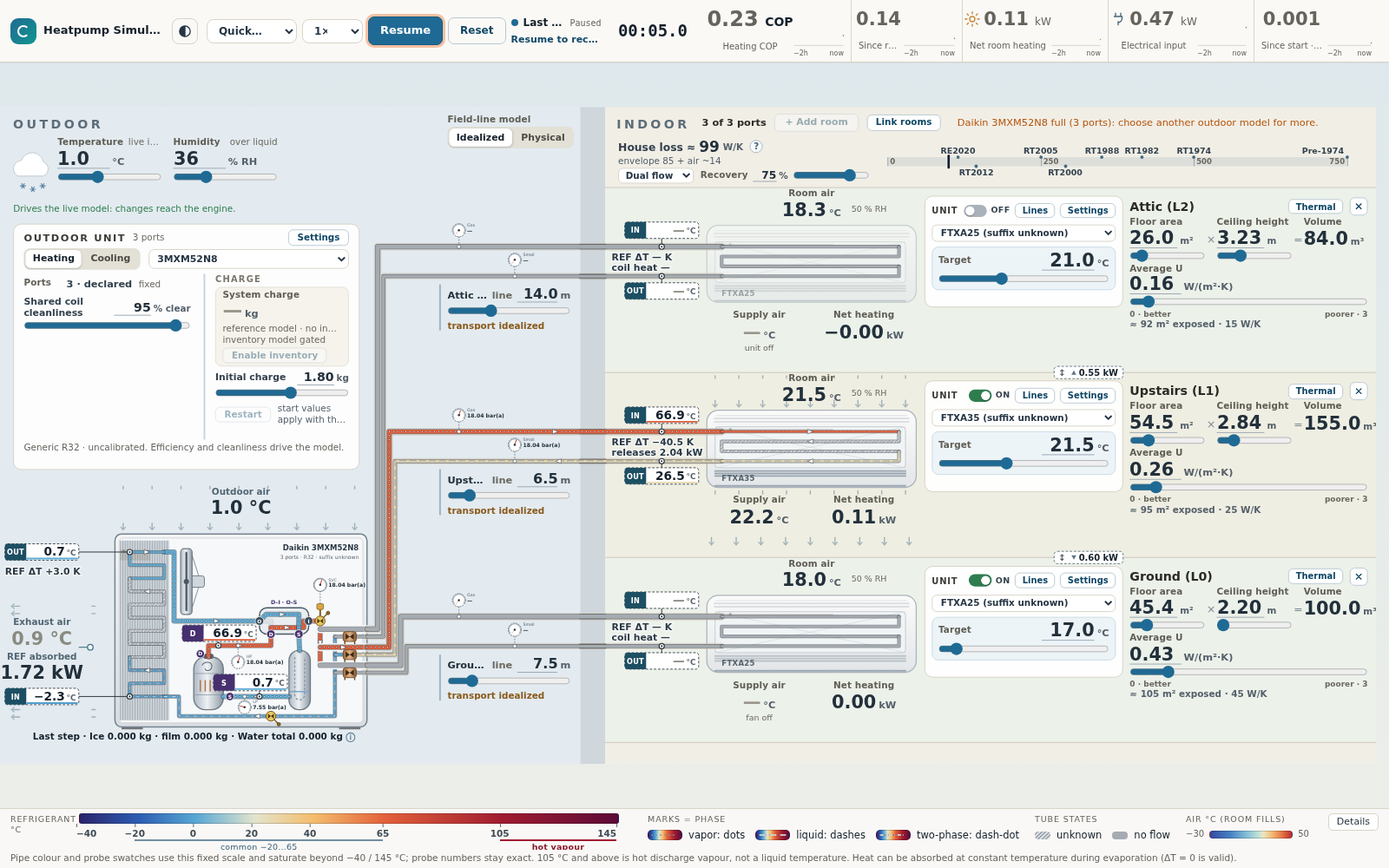
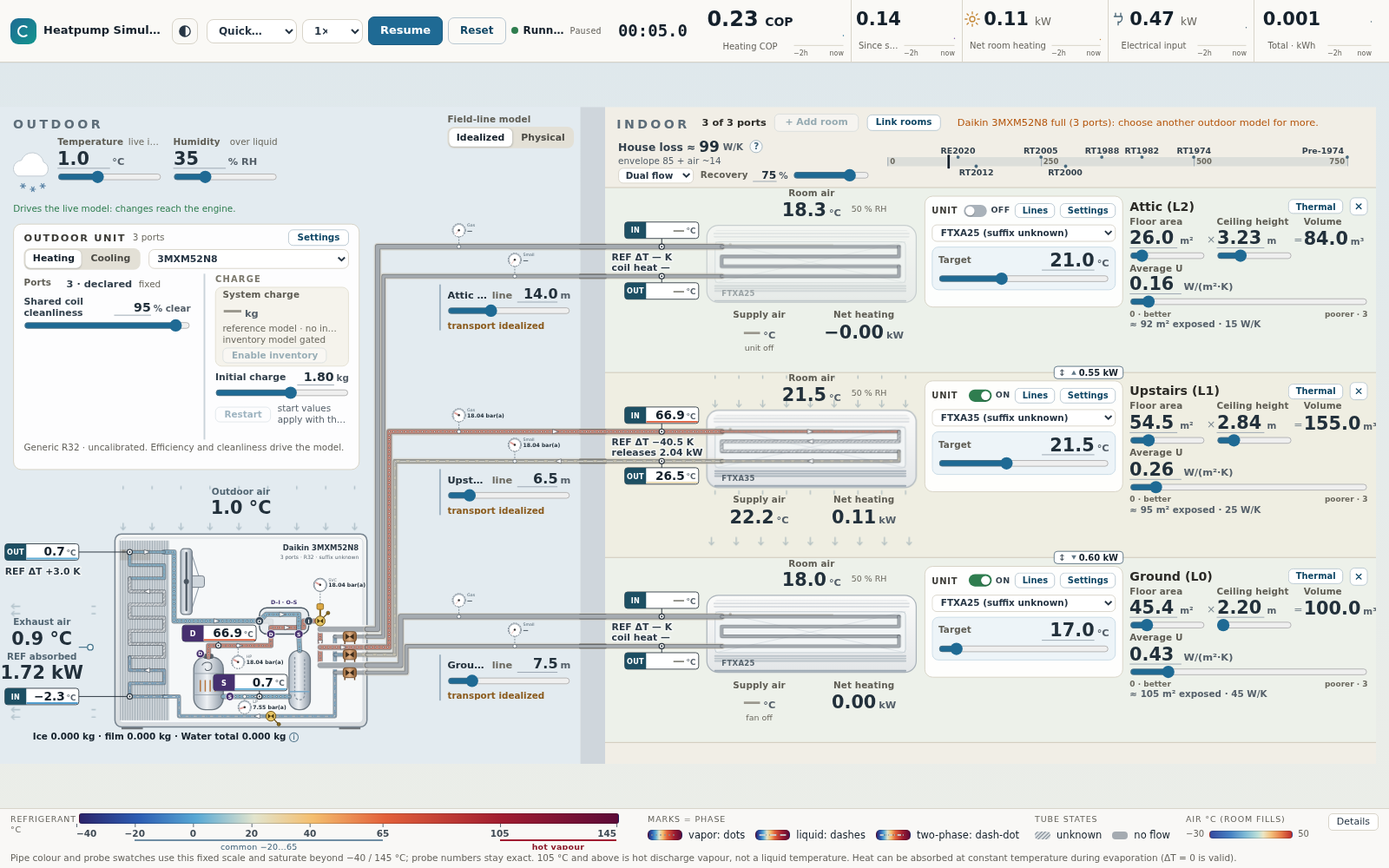
Make headline units legible and show elapsed hours

diff --git a/src/style.css b/src/style.css
@@ -320,8 +320,8 @@ h2, h3, h4, h5, p, ul, dl { margin: 0; }
 .brand b { font-size: 13px; letter-spacing: 0; white-space: nowrap; overflow: hidden; text-overflow: ellipsis; }
 .mark { width: 30px; height: 30px; border-radius: 9px; background: linear-gradient(135deg, #1f6a94, #12968e); position: relative; flex: none; }
 .mark::after { content: ""; position: absolute; inset: 8px; border: 2px solid #fff; border-radius: 50%; border-right-color: transparent; }
-/* Below 1420 px the header budget goes to the controls: the mark stays, the name stays available to hover and screen readers. */
-@media (max-width: 1419px) {
+/* On narrower desktops the header budget goes to the controls; the name stays available to hover and screen readers. */
+@media (max-width: 1499px) {
   .brand b { position: absolute; width: 1px; height: 1px; overflow: hidden; clip-path: inset(50%); }
   .brand .mark { display: none; }
   .hd-id { min-width: 30px; }
@@ -348,7 +348,7 @@ h2, h3, h4, h5, p, ul, dl { margin: 0; }
 }
 
 .hd-group { display: flex; align-items: center; gap: 6px; flex: none; }
-/* Status, achieved speed and clock read as one unit after the controls. The clock keeps tenths and room for three-digit minutes. */
+/* Status, achieved speed and elapsed hours/minutes/seconds read as one unit after the controls. */
 .hd-run { display: flex; align-items: center; gap: 8px; flex: none; }
 .time { font: 650 19px/1 var(--mono); font-variant-numeric: tabular-nums; letter-spacing: 0; min-width: 8ch; text-align: right; white-space: nowrap; }
 /* Action select: shows its placeholder at rest; the longer option texts only appear in the open list. */
@@ -364,22 +364,22 @@ h2, h3, h4, h5, p, ul, dl { margin: 0; }
 .hd-pause.attn { box-shadow: 0 0 0 3px rgba(232, 89, 12, 0.35); }
 .hd-reset { padding: 5px 10px; font-size: 12px; }
 
-/* Headline readings: three fixed cells, separated by full-height hairlines (no card borders, no radius). In each cell the
+/* Headline readings: five fixed cells, separated by full-height hairlines (no card borders, no radius). In each cell the
    value sits at the left with its label below it, and the two-hour trend fills the space to the right of both. */
 .hd-metrics { display: flex; align-self: stretch; flex: none; }
-.hm { display: grid; grid-template-columns: 88px minmax(36px, 1fr); grid-template-rows: auto auto; align-content: center; align-items: center; column-gap: 6px; row-gap: 2px; width: clamp(146px, 10.5vw, 208px); padding: 5px 8px; min-width: 0; }
+.hm { display: grid; grid-template-columns: 110px minmax(36px, 1fr); grid-template-rows: auto auto; align-content: center; align-items: center; column-gap: 6px; row-gap: 2px; width: clamp(168px, 11.5vw, 220px); padding: 5px 8px; min-width: 0; }
 /* The since-restart COP is a narrower secondary cell right of the instantaneous COP: smaller value, own plot. */
 .hm-session-cop { grid-template-columns: 46px minmax(36px, 1fr); width: clamp(104px, 8vw, 160px); }
-.hm-energy { grid-template-columns: 70px minmax(36px, 1fr); width: clamp(128px, 9vw, 176px); }
+.hm-energy { grid-template-columns: 110px minmax(36px, 1fr); width: clamp(168px, 11.5vw, 220px); }
 .hm-energy .v { font-size: 21px; }
 .hm-session-cop .v { font-size: 21px; font-weight: 750; }
 .hm-session-cop .k { font-size: 9px; }
 .hm + .hm { border-left: 1px solid var(--line); }
 .hm .vl { display: flex; grid-column: 1; grid-row: 1; justify-content: center; align-items: baseline; gap: 4px; white-space: nowrap; }
 .hm .v { font: 750 21px/1.15 var(--font); font-variant-numeric: tabular-nums; }
-.hm i { font-size: 12px; }
+.hm i { font: 600 21px/1.15 var(--font); color: var(--ink); opacity: .72; }
 .hm-cop .v { font-size: 24px; font-weight: 850; }
-.hm-cop i { font-size: 14px; font-weight: 750; color: var(--ink); }
+.hm-cop i { font-size: 24px; font-weight: 750; }
 .hm .k { grid-column: 1; grid-row: 2; text-align: center; max-width: 100%; font-size: 10px; color: var(--muted); white-space: nowrap; overflow: hidden; text-overflow: ellipsis; }
 .hm-icon { align-self: center; flex: none; width: 18px; height: 18px; fill: none; stroke: currentColor; stroke-width: 1.8; stroke-linecap: round; stroke-linejoin: round; color: var(--icon); }
 .hm-sun { color: var(--c-heat); }
@@ -400,11 +400,19 @@ h2, h3, h4, h5, p, ul, dl { margin: 0; }
 .hm-ends { position: absolute; left: 0; right: 0; bottom: 0; display: flex; justify-content: space-between; font: 8px/1 var(--font); color: var(--muted); pointer-events: none; }
 
 .hd-status { flex: none; width: 104px; display: flex; flex-direction: column; gap: 4px; }
-@media (max-width: 1419px) {
+@media (max-width: 1499px) {
+  .topbar { gap: 6px; padding-inline: 8px; }
+  .hd-group { gap: 5px; }
+  .hd-run { gap: 6px; }
   .hd-status { width: 100px; }
-  .hd-select.hd-preset { width: 96px; }
+  .hd-select.hd-preset { width: 76px; }
+  .hd-speed { width: 64px; }
   .hd-pause { min-width: 70px; }
   .topbar .btn { padding-inline: 9px; }
+}
+@media (max-width: 1359px) {
+  .hm, .hm-energy { grid-template-columns: 110px minmax(26px, 1fr); width: 158px; }
+  .hm-session-cop { grid-template-columns: 46px minmax(26px, 1fr); width: 94px; }
 }
 .hd-badges { display: flex; align-items: center; gap: 6px; min-width: 0; }
 .hd-badges .opstate, .hd-badges .hd-ex { min-width: 0; }

diff --git a/src/chrome.ts b/src/chrome.ts
@@ -18,9 +18,11 @@ export interface Header {
 }
 
 const fmtTime = (sec: number): string => {
-  const m = Math.floor(sec / 60);
-  const s = sec - m * 60;
-  return `${String(m).padStart(2, '0')}:${s.toFixed(1).padStart(4, '0')}`;
+  const wholeSeconds = Math.floor(sec);
+  const h = Math.floor(wholeSeconds / 3600);
+  const m = Math.floor(wholeSeconds / 60) % 60;
+  const s = wholeSeconds % 60;
+  return [h, m, s].map(value => String(value).padStart(2, '0')).join(':');
 };
 
 /** Shared one-line statements so every surface says the same thing about the live model. */
@@ -110,7 +112,7 @@ export function createHeader(): Header {
   const resetHelp = 'Restart the simulation from the current inputs: clock, ice and room state start over; your edited settings and initial room temperatures are kept and applied.';
   const reset = html('button', { type: 'button', class: 'btn ghost hd-reset', 'aria-label': 'Reset simulation', title: resetHelp }, 'Reset');
   reset.addEventListener('click', () => store.restartSimulation());
-  const time = html('output', { class: 'time', 'aria-label': 'Simulation time' }, '00:00.0');
+  const time = html('output', { class: 'time', 'aria-label': 'Simulation time' }, '00:00:00');
 
   // Headline readings: value with its trend to the right, label below the value, fixed-width cells so the header does not reflow
   // as numbers change. The plot fills most of the header height and stretches to its cell width (non-uniform viewBox, non-scaling strokes); its
@@ -138,9 +140,9 @@ export function createHeader(): Header {
   mHeat.root.classList.add('hm-heat');
   const mElec = metric('kW');
   mElec.root.classList.add('hm-elec');
-  const mEnergy = metric(null, 'energy-line');
+  const mEnergy = metric('kWh', 'energy-line');
   mEnergy.root.classList.add('hm-energy');
-  mEnergy.k.textContent = 'Total · kWh';
+  mEnergy.k.textContent = 'Since start';
   mEnergy.root.title = 'Electrical energy since start: cumulative compressor, fan and control electricity from the engine ledger. Kept across settings and mode changes; cleared on Reset.';
   const icon = (): SVGSVGElement => svg('svg', { class: 'hm-icon', viewBox: '0 0 24 24', 'aria-hidden': 'true' });
   const plug = icon();

diff --git a/PROGRESS.md b/PROGRESS.md
@@ -4,17 +4,22 @@ Updated 2026-10-11. This is the current implementation checkpoint; detailed evid
 
 ## Active release verification
 
-- Sonnet5.5 completed permanent brand-grouped indoor/outdoor selects, straight exhaust, a side-view outdoor fan, one calculated whole-house RT ruler and normalized room insulation. Room links now combine opening/contact areas and glass-wool thickness; owner defaults are4 +45 m²/120 mm at both floor junctions. Room data checks5/5, RT/layout4/4 (32 layouts), link/session/water6/6, navigation10/10, zoom/trends5/5 (64 layouts), equipment browser5/5, and all28 links in an eight-room layout pass. These changes are local until the next reviewed release.
-- Upper-bar winter/summer operating presets and a separate room Sun from windows input pass3/3 browser/guarded-worker checks. Presets preserve time and service energy; summer uses39 °C, all headsOn at24 °C. Later Home Assistant heatwave calibration is explicitly retained in `research/owner-summer-calibration-plan.md`; no HA retrieval was performed.
-- Qwen on10.10.10.204 (thinking off) produced52 Mitsubishi base candidates;25 outdoor and45 matched indoor profiles are accepted. Catalogue compaction preserves all applied fields while reducing generated runtime data by92.9%; six source-acceptance tests pass. Daikin discovery and Stylish candidates are saved but not accepted: source review found an airflow conversion error, and Qwen is correcting it. Full manufacturer coverage remains incomplete.
-- The first frozen moisture/protection source passed79 guarded Reference/property checks and a40-case replay/smoke/owner/frost campaign. The broader57-case seeded run passed53 and exposed four additional physical faults, with exact rollback and no native exit/timeout/invariant failures. These are saved and under thermodynamics correction plus independent science review; the previous passing receipts are not relabelled as proof of the newer source. The friend's native crash remains unreproduced; local diagnostic downloads and retained accepted state are verified.
+Application `86dbc4d` is deployed. GitHub run `38133655370` passed 91 Reference/property checks, 2 history checks, 7 catalogue checks and 25 smoke schedules. Seven hosted checks verified matching application/worker/WASM assets. Receipt: `reviews/github-pages-house-energy-deployment.json`.
+
+The next header refinement enlarges inline units to match values and displays elapsed HH:MM:SS without fractions; five local browser checks and the static build pass. Owner reports rapid ground-floor fan switching at −4°C outdoors and a16°C target; a dedicated thermodynamics agent is implementing persistent ±1K indoor calls and physically consistent fan modulation. This correction is not yet deployed.
+
+- House controls use average U with automatic estimated exposed area and advanced override. Default envelope losses remain45/25/15W/K. Owner dual flow defaults to0.5ACH gross and75% sensible recovery, explicitly assumed. All coils permanently share95% cleanliness. The RT ruler shows99.4075W/K nominal total. Independent science review and8data checks pass.
+- Header speed precedes Pause; achieved speed is beside status and the larger clock. Five taller plots include cumulative electrical kWh, which uses the engine ledger and clears on Reset. Compressor efficiency is in Outdoor Settings; Luna's corrected primary-source review supports retaining70% as a generic assumption. Four focused header/energy checks,32RT layouts,64zoom layouts and2history tests pass. Codex now owns interface changes per user instruction.
+- Updated engine passes91unique guarded Reference checks, with the private-runner missing-fixture packaging correction recorded explicitly in the two receipts. Source-pinned campaigns pass75/75 pre-recovery schedules and20/20 updated-recovery schedules. The latter includes the actual new house defaults, all owner reversals, friend/hot-weather cases and four defrosts. The actual browser completed1440s of strong heating followed by42°C cooling without a fault/reset; diagnostics and accepted-state retention pass. The friend's original native crash remains unreproduced.
+- Catalogue selection includes25Mitsubishi outdoor/45indoor profiles and4Daikin Stylish outdoor/16indoor colour variants. Seven source-acceptance tests and five equipment browser checks pass. Daikin outdoor airflow remains explicitly generic where unpublished. Qwen on10.10.10.204, thinking off, is extracting remaining families; dated2022 candidates do not establish the full current2026range. New candidates are not silently promoted.
+- Measured requested1×/2× pacing is approximately0.95×/1.94×; requested50× active operation averages14.1× over the short browser sample, while passive operation reaches45.8×. The displayed achieved rate is rolling, not a promise that the browser can sustain50×.
 
 ## Completed and verified
 
 - Frontend-only, pure-vector desktop workbench, with settings and measurements beside their environment or equipment.
 - Owner equipment preset and exact floor volumes: Ground 45.4 m² / 100 m³, Upstairs 54.5 m² / 155 m³, Attic 26 m² / 84 m³.
 - Individual indoor On/Off, room area/height/loss controls, outdoor weather, equipment cleanliness, branch line lengths and click-to-zoom zones.
-- Shared pipe-mounted manometers for outdoor and indoor branches; compact indoor controls. Latest interface checkpoint: `cdee99a`.
+- Shared pipe-mounted manometers for outdoor and indoor branches; compact indoor controls. Current interface/application checkpoint: `86dbc4d`.
 - Separately validated R32 Reference heating/cooling, room dynamics and natural frost/defrost. Production starts this actual worker model.
 - Conserved refrigerant mass/internal-energy implementation remains experimental and gated. Pressure-conditioning corrections passed the actual-backend core and rollback checks.
 - Product scope uses initial charge adjustments to compare post-loss scenarios. Ongoing leaks were removed. Optional compressor/fan audio is recorded for later, off by default.
@@ -32,7 +37,7 @@ Updated 2026-10-11. This is the current implementation checkpoint; detailed evid
 - **Inverter comfort control, verified and deployed:** replaced target-triggered shutdown in the Reference model with sensible-loss feed-forward and bounded room feedback, preserving independently solved heat exchange, actuator limits, protection, defrost and physical state. Conventional fixed-speed thermostat control is a separate strategy. Final guarded regression passed 52/52 in 281.85 s; independent science review accepted the frozen source. Balanced-load heating operated continuously across target for 600 s; the exact owner's cold two-head configuration also ran 600 s without fault or reset, without claiming settled targets. Below-minimum-load cycling remains physically necessary. Evidence: `reviews/inverter-reference-regression-results.json`, `research/inverter-control-validation.json` and `reviews/inverter-control-science-review.md`.
 - **Interface refinement, verified and deployed:** Sonnet 5.5 implemented System/Light/Dark themes with persistent explicit overrides. Headline graphs sit to the right of values; compact outdoor controls reclaim enough space for the default three-room overview without scrolling. Build and two history checks pass, with five theme checks, five zoom/history checks across 64 viewport/count/zoom combinations, and ten zone-navigation checks. Theme changes preserve physical state and fixed temperature scales; unavailable storage retains page-local choices. Interface commit `f25c7d3` and inverter commit `a2ade59` have both passed GitHub Actions and deployed; the loss-scale release also deployed as `0e7bc15`.
 - **Permanent loss-reference scale, verified and deployed:** Sonnet added a numerical 0–1000 W/K ruler and all eight supplied era bands directly beneath every room loss slider. Pre-1974 and RE2020 use full-width key rows; endpoint labels remain inside their room. Three browser checks passed across 32 viewport/count/theme combinations, retaining focus, room zoom, static reference elements and accepted physical state on loss edits. Build and the existing ten navigation checks pass. Evidence: `reviews/loss-scale-browser-results.json`.
-- **Latest published release:** application commit `0e7bc15` passed 52/52 Reference/property checks and 2/2 history checks in GitHub run `38117990981`, then deployed successfully. All six hosted-browser checks passed, including every supplied loss band beneath each room slider, retained clock on edits, zoom/legend placement and real accelerated worker operation. Application, worker, stylesheet and WASM hashes match the verified build. Evidence: `reviews/github-pages-interface-deployment.json` and `reviews/github-pages-browser-results.json`.
+- **Earlier loss-scale release:** application commit `0e7bc15` passed 52/52 Reference/property checks and 2/2 history checks in GitHub run `38117990981`, then deployed successfully. All six hosted-browser checks passed, including every supplied loss band beneath each room slider, retained clock on edits, zoom/legend placement and real accelerated worker operation. Application, worker, stylesheet and WASM hashes match the verified build. Evidence: `reviews/github-pages-interface-deployment.json` and `reviews/github-pages-browser-results.json`.
 
 - **Midpoint loss markers, verified and deployed:** at the owner’s request, Sonnet replaced range bars and the separate key with directly labelled midpoint markers. A conservative width allowance fixed the browser-observed RT2012/RT2000 overlap. Build, all three loss-scale checks across 32 viewport/count/theme combinations, and ten navigation checks passed, including label/leader collision checks and retained focus/zoom/state. Application `2ad257f` passed 52 Reference/property and 2 history checks in GitHub run `38119168519`, deployed successfully, and passed all six hosted checks with matching application/worker/styles/WASM hashes. Evidence: `reviews/github-pages-midpoints-deployment.json`.
 
@@ -70,7 +75,7 @@ The public charge gate remains closed. The Reference model has no charge respons
 
 Qwen3.8-Flash-Next on **10.10.10.204** owns Daikin and Mitsubishi Electric consumer-range population through OpenCode, with thinking off and a process-scoped SSH forward to its remote loopback API. No global provider configuration is changed. The research contract, candidate schema, official source index and worker status are under `research/catalogue/`; numerical source acceptance remains separate from schema validation.
 
-Qwen has saved **37 HR/AY/AP/EF staging candidates**. Independent selected-field acceptance maps18 outdoor references and26 compatible indoor profiles, including explicit EF colour variants. Facts outside the accepted whitelist remain candidates; EF18 awaits multisplit compatibility and is excluded. LN research is running on10.10.10.204, thinking off. Full Mitsubishi/Daikin coverage remains incomplete; subsequent families retain bounded source reads and per-unit checkpoints.
+Qwen has saved52Mitsubishi base candidates;25outdoor/45indoor profiles are accepted. Daikin Stylish4outdoor/16indoor variants are accepted, while remaining family staging is actively being populated and independently reviewed. Full current manufacturer coverage remains incomplete.
 
 Preserve distinct inverter and conventional fixed-speed control strategies for future catalogue entries. Luna completed the exact N8 source check in `research/daikin-3mxm52n8-specifications.md`. Julien reports steady 130 W at low temperature difference and confirms 2350 W as an upper value. Published combination-table minima are condition-specific ratings, not universal operating floors.
 

diff --git a/reviews/daikin-next-family-acceptance-plan.md b/reviews/daikin-next-family-acceptance-plan.md
@@ -1,0 +1,162 @@
+# Daikin next-family acceptance plan
+
+Reviewed 2026-10-11. This is an independent, read-only source review of completed
+Qwen candidate families. No application data, importer, acceptance list or
+production artifact was changed. Perfera and other actively written candidates
+were not consumed.
+
+Primary evidence: Daikin Europe, *Catalogue des produits pour installateurs
+2022*, ECPFR-FR22-000, French, PDF pages 40–41 (printed pages 40–41).
+Official URL: https://www.daikin.eu/content/dam/document-library/catalogues/ac/split/Split-Installer_Product%20catalogue_ECPFR-FR22-000_French.pdf
+Cached PDF SHA-256:
[1 lines of base64/hex data omitted]
+Both cached text and 2400px primary page images were read. All 16 family candidate
+files passed the existing structural validator; source acceptance is separate.
+This dated catalogue establishes historical declarations, not the full current
+2026 French range or present availability.
+
+## Ururu Sarara: six candidates eligible for bounded historical acceptance
+
+The p.40 title explicitly names FTXZ-N + RXZ-N. The efficiency table explicitly
+pairs 25N + 25N, 35N + 35N and 50N + 50N; the physical-unit headers confirm the same exact
+suffixes. Accept only these published monosplit combinations, each one indoor
+head/one port. No multisplit eligibility is established.
+
+| Outdoor reference | Matched indoor reference | Indoor high-fan cooling | Indoor high-fan heating | Nominal cooling of this combination |
+|---|---|---:|---:|---:|
+| RXZ25N | FTXZ25N | 10.7 m³/min = 642 m³/h | 11.7 m³/min = 702 m³/h | 2.5kW |
+| RXZ35N | FTXZ35N | 12.1 m³/min = 726 m³/h | 13.3 m³/min = 798 m³/h | 3.5kW |
+| RXZ50N | FTXZ50N | 15.0 m³/min = 900 m³/h | 14.4 m³/min = 864 m³/h | 5.0kW |
+
+The flow row is **m³/min**, so conversion to m³/h is exactly× 60. Cooling and
+heating are distinct rows. Qwen's converted values agree with all six published
+indoor fan settings per size (three per mode). Selecting the numerical maximum
+across modes would be wrong: for 25N / 35N it would substitute heating airflow for
+cooling, while 50N has lower heating than cooling high-fan flow.
+
+Verified shared physical fields and operating-range metadata:
+
+- Indoor case H×W×D: 295×798×372 mm, merged across all three indoor columns.
+- Outdoor case H×W×D: 693×795×300 mm, merged across all three outdoor columns.
+- Refrigerant R-32 (normalize identifier to validated R32, preserve source spelling).
+- Cooling range −10…43°C **outdoor dry bulb** (°CBS).
+- Heating range −20…18°C **outdoor wet bulb** (°CBH).
+
+Outdoor airflow is absent; keep an explicit editable generic outdoor mass-flow
+fallback. Never substitute the indoor flow or derive airflow from casing, watts
+or capacity. The heating range is wet-bulb metadata and cannot be directly used
+as a dry-bulb outdoor slider or compressor cut-off limit.
+
+The candidate records correctly keep nominal combination capacities in ratings,
+rather than making “25” itself a kW fact. If the importer needs nominal cooling
+for UI labels, promote the actual cooling rating's nominal 2.5 / 3.5 / 5.0 kW with
+combination/condition evidence; do not derive it from the model name or use it to
+infer compressor displacement, coil UA or a performance map. Published system
+electrical min/nominal/max are rating-table values, not universal operating floors.
+
+Implementation recommendation for a later authorized integration pass: use the
+verified cooling high-fan volume-flow profiles and nullable/unpublished outdoor
+flow support already added for Stylish. A small mode-aware indoor profile can
+also use the explicitly published heating values. Until that path exists,
+reusing cooling flow in heating must remain an explicit generic assumption, not
+a claim that heating airflow was absent from this table. Preserve manual edits.
+
+Ururu humidification, ventilation and specialized drying functions are named on
+the page but their mechanisms are not modeled by the current generic reversible
+air-air cycle. Published indoor fan flow is not an outdoor-ventilation ACH.
+Additional unknowns: fan electrical power, dynamic fan map, internal exchanger
+geometry/UA, compressor geometry/efficiency/maps and present availability.
+
+## Emura: trustworthy printed identities and pairings; numerical fields preliminary
+
+The p.41 title is FTXJ-AW/S/B + RXJ-A. Each efficiency column explicitly pairs
+the corresponding size and outdoor A suffix. Exact colour references can be
+expanded from the printed group notation: AW, AS and AB. Slash-group strings
+are source-table identities, not individual selectable manufacturer references.
+
+| Outdoor reference | Exact matched indoor references | Printed indoor H×W×D | Printed outdoor H×W×D | Printed nominal cooling |
+|---|---|---|---|---:|
+| RXJ20A | FTXJ20AW, FTXJ20AS, FTXJ20AB | 305×900×214mm | 552.7×840×350mm | 2.0kW |
+| RXJ25A | FTXJ25AW, FTXJ25AS, FTXJ25AB | 305×900×214mm | 552.7×840×350mm | 2.5kW |
+| RXJ35A | FTXJ35AW, FTXJ35AS, FTXJ35AB | 305×900×214mm | 552.7×840×350mm | **3.4kW** |
+| RXJ42A | FTXJ42AW, FTXJ42AS, FTXJ42AB | 305×900×214mm | 734×954×408mm | 4.2kW |
+| RXJ50A | FTXJ50AW, FTXJ50AS, FTXJ50AB | 305×900×214mm | 734×954×408mm | 5.0kW |
+
+Shared casing cells are correctly resolved: indoor all five sizes; outdoor
+20 / 25 / 35 together and 42 / 50 together. The printed range is −10…50°C cooling
+dry bulb and −20…24°C heating wet bulb. R-32/675 is printed. Each explicitly
+listed pairing is monosplit, one head/one port; exact multisplit eligibility
+is not established by this page.
+
+**Source-quality issue:** essentially the entire numerical specification table
+is light blue, including dimensions, range endpoints, capacities, refrigerant
+rows and acoustic numbers. The footnote says blue cells contain preliminary
+data. This qualification applies to printed numerical values, not only to dash
+cells. The Emura manifest and candidate unknowns presently narrow that caveat
+to missing dash cells; this is an error requiring a corrective Qwen pass before
+ordinary verified-field promotion.
+
+The printed dash cells genuinely contain no indoor cooling or heating airflow,
+no nominal electrical input, and no indoor heating sound-power values. Outdoor
+airflow is also absent. Explicit generic mass-flow fallback must work for **both
+indoor and outdoor** units, preserving editable generic settings and showing
+neither 0 m³/h nor an invented volume flow. Current importer support for unknown
+outdoor flow alone is insufficient for this family.
+
+Two honest integration options after that correction:
+
+1. Accept historical exact identities and printed mono pairings, with numerical
+   physical inputs left generic until final primary data is obtained.
+2. Offer the historical Emura profiles with explicit “2022 preliminary” source
+   status on their printed casing/range/rating metadata, while both airflows
+   remain manual generic assumptions. Do not label those numerical values as
+   final OEM specifications or silently map them into performance calibration.
+
+Option 1 is preferable if the interface cannot clearly express preliminary
+status. The existing `reviewed-fields` label alone loses this material source
+qualification. A newer finalized official technical table would also resolve
+this gap, but source discovery/population remains assigned to Qwen.
+
+Other candidate caveats: three sound-pressure speed labels accompany four
+descending slash values; Qwen preserves order rather than assigning invented
+speeds, which is appropriate. Nominal35 size cooling capacity is printed 3.4 kW,
+not 3.5 kW. No reported EER/COP or system power rating may be converted into an
+OEM map, universal electrical floor or guessed compressor/coil properties.
+
+## Corrective Qwen work before subsequent promotion
+
+- Amend Emura family/candidate provenance so every printed blue numerical cell
+  carries the 2022 preliminary-data caveat, not merely absent airflow/input rows.
+- Stylish20 remains withheld from the current root pass: the shared 15 / 20 high
+  cooling-flow cell is 11.0 m³/min = 660 m³/h; its current Qwen FTXA20 candidate says
+  690 m³/h. Ask Qwen to correct the candidate against the original merged cell;
+  do not silently populate different source facts from root code.
+- Maintain historical 2022 coverage and unknown present availability explicitly.
+  Neither these families nor the completed Stylish batch establish full 2026
+  Daikin coverage.
+
+## Frozen candidate and manifest hashes
+
+Files below are relative to `research/catalogue/staging/`. Hashes identify the
+reviewed snapshots; any content change requires renewed source acceptance.
+
+| File | SHA-256 |
+|---|---|
[18 lines of base64/hex data omitted]

diff --git a/README.md b/README.md
@@ -32,7 +32,9 @@ The first deployment passed 35 checks on GitHub and four hosted checks. The expa
 
 The preceding 0–750 W/K loss-scale release (`368f6b0`) passed **52 Reference/property checks and 2 history checks** on GitHub, followed by **6 hosted-browser checks**. All eight midpoint markers remain directly labelled beneath each room slider. Four focused local checks verify alignment, 32 desktop layouts and above-cap commits without resetting state. Deployed scripts, styles and WASM match the build; receipt: `reviews/github-pages-loss-cap-deployment.json`.
 
-The current room-link/session/water release (`732bc55`) passed **69 Reference/property checks and 2 history checks** on GitHub, followed by **7 hosted-browser checks**. Its 28 local browser checks include actual cooling condensate accounting, visual room-link placement, focused editing and desktop layouts. The deployed scripts, styles and WASM match the tested build; receipt: `reviews/github-pages-house-deployment.json`.
+The preceding room-link/session/water release (`732bc55`) passed **69 Reference/property checks and 2 history checks** on GitHub, followed by **7 hosted-browser checks**. Its 28 local browser checks include actual cooling condensate accounting, visual room-link placement, focused editing and desktop layouts. The deployed scripts, styles and WASM match the tested build; receipt: `reviews/github-pages-house-deployment.json`.
+
+The house/energy stability release (`86dbc4d`) passed **91 Reference/property checks, 2 history checks, 7 catalogue checks and 25 robustness smoke schedules** on GitHub run `38133655370`. Seven hosted checks verified matching application, worker and WASM assets, the actual worker, house defaults, energy history, zoom and edits that retain the clock. Receipt: `reviews/github-pages-house-energy-deployment.json`.
 
 The hosted application, worker and WASM match the verified build. Paused weather and individual-unit edits preserve the clock. Recheck with `node tools/check-hosted-pages.mjs` and `node tools/check-hosted-stability.mjs`, using the project's isolated QA Chromium. The first deployment evidence remains in `reviews/github-pages-deployment.json`; current browser checks are in `reviews/github-pages-browser-results.json`.
 
@@ -52,7 +54,7 @@ The default Reference inverter estimates room heat demand from sensible envelope
 
 Future conventional equipment can select the separate fixed-speed `on-off` strategy. Its thermostat stops at target and restarts 1°C below/above it in heating/cooling, with the existing `thermostatDeadbandK` margin, minimum-on/off times and protection. At fixed motor speed, capacity and electricity still vary with physical conditions.
 
-A single header groups Pause, Reset and operating status together. Bold inline COP and electrical/useful-output power retain small labels below, with vector plug and sun/snowflake symbols. Measurements and common controls live on the diagram; source selection and unique model diagnostics live in the outdoor unit settings. Requested speed appears before Pause; achieved speed sits beside status and the larger clock. Headline plots use60px of the72px header. Compressor isentropic efficiency is editable in Outdoor Settings;70% remains a declared generic assumption, following the primary-source Luna review in research/compressor-efficiency-reference.md. Click the outdoor or indoor zone, or a room, to zoom; use Zoom out or Escape to return. The outdoor fan uses a static narrow side view beside the fin bank and indoor heads show a horizontal outlet with slats. Indoor coils span almost the full casing width with a 5% right-side margin. Room-air temperature sits in the inlet streams; supply temperature and net heating/cooling power sit in the outlet streams, directly on the background. Vector airflow exits the outdoor unit to the left and indoor units downwards, with plain outdoor inlet/exhaust-air temperatures and refrigerant coil heat beside the leftward exhaust. Flow lines leave gaps around the values. Room volume is calculated from floor area and ceiling height (2.2–6 m); the envelope-loss help retains the supplied era bands with their unknown reference size clearly identified. Airflow cues follow actual fan operation; mechanical blade rotation is omitted.
+A single header groups Pause, Reset and operating status together. Bold inline COP and electrical/useful-output power retain small labels below, with vector plug and sun/snowflake symbols. Measurements and common controls live on the diagram; source selection and unique model diagnostics live in the outdoor unit settings. Requested speed appears before Pause; achieved speed sits beside status and the larger elapsed clock in HH:MM:SS, without fractional seconds. Inline COP/kW/kWh units match their values in size with slightly muted emphasis. Headline plots use60px of the72px header. Compressor isentropic efficiency is editable in Outdoor Settings;70% remains a declared generic assumption, following the primary-source Luna review in research/compressor-efficiency-reference.md. Click the outdoor or indoor zone, or a room, to zoom; use Zoom out or Escape to return. The outdoor fan uses a static narrow side view beside the fin bank and indoor heads show a horizontal outlet with slats. Indoor coils span almost the full casing width with a 5% right-side margin. Room-air temperature sits in the inlet streams; supply temperature and net heating/cooling power sit in the outlet streams, directly on the background. Vector airflow exits the outdoor unit to the left and indoor units downwards, with plain outdoor inlet/exhaust-air temperatures and refrigerant coil heat beside the leftward exhaust. Flow lines leave gaps around the values. Room volume is calculated from floor area and ceiling height (2.2–6 m); the envelope-loss help retains the supplied era bands with their unknown reference size clearly identified. Airflow cues follow actual fan operation; mechanical blade rotation is omitted.
 
 One whole-house 0–750 W/K reference ruler shows eight directly labelled midpoints: RE2020 115, RT2012 145, RT2005 250, RT2000 290, RT1988 350, RT1982 415, RT1974 500 and Pre-1974 750 W/K. Staggered labels and fine leaders keep them legible. These are building examples of unspecified size, not regulatory classifications.
 
@@ -80,7 +82,7 @@ This is a generic, uncalibrated R32 reduced-order model. Manufacturer labels/cas
 
 Each branch has a permanent length number/slider between the outdoor group and wall. The corridor also provides the field-line model switch; bore and insulation assumptions stay one click away. Idealized field lines are the current default: length, diameter, pressure loss and ambient line heat are excluded there. **Physical (advanced)** enables bounded distributed homogeneous-equilibrium pipe calculations with assumed wall thickness and outdoor exposure. These are sensitivity estimates; two-phase losses, fittings, slip, oil and actual routing are not calibrated installation predictions. The upcoming inventory model retains physical line volume even when transport losses are idealized.
 
-Requested speed is limited by actual solver throughput. The worker keeps calculations off the interface thread and batches one to four unchanged quarter-second physical steps, retaining at most one second of requested work. The clock advances only after completed steps, and the reading below the speed selector shows the achieved rate. Exchanger outlets use exact pure-fluid latent inversion and a bounded sensible-zone solve; pressure continuation reuses a numerical slope only while fresh EOS residuals satisfy the original closure limits. The guarded native backend reuses exact HEOS states without duplicate property flashes. Earlier guarded-backend browser checks, before the inverter/fog stability changes, measured about 1× and 2× at those settings, about 13× for active owner-preset heating requested at 50×, and about 47–49× with all units off. These are workload-dependent observations, not a guaranteed maximum. Physical piping and the experimental inventory model can be much slower. Numerical tests exercise thousands of actual flashes and can take tens of minutes.
+Requested speed is limited by actual solver throughput. The worker keeps calculations off the interface thread and batches one to four unchanged quarter-second physical steps, retaining at most one second of requested work. The clock advances only after completed steps, and the reading beside operating status and the clock shows the achieved rate. Exchanger outlets use exact pure-fluid latent inversion and a bounded sensible-zone solve; pressure continuation reuses a numerical slope only while fresh EOS residuals satisfy the original closure limits. The guarded native backend reuses exact HEOS states without duplicate property flashes. Earlier guarded-backend browser checks, before the inverter/fog stability changes, measured about 1× and 2× at those settings, about 13× for active owner-preset heating requested at 50×, and about 47–49× with all units off. These are workload-dependent observations, not a guaranteed maximum. Physical piping and the experimental inventory model can be much slower. Numerical tests exercise thousands of actual flashes and can take tens of minutes.
 
 ## Owner-house starting preset
 
